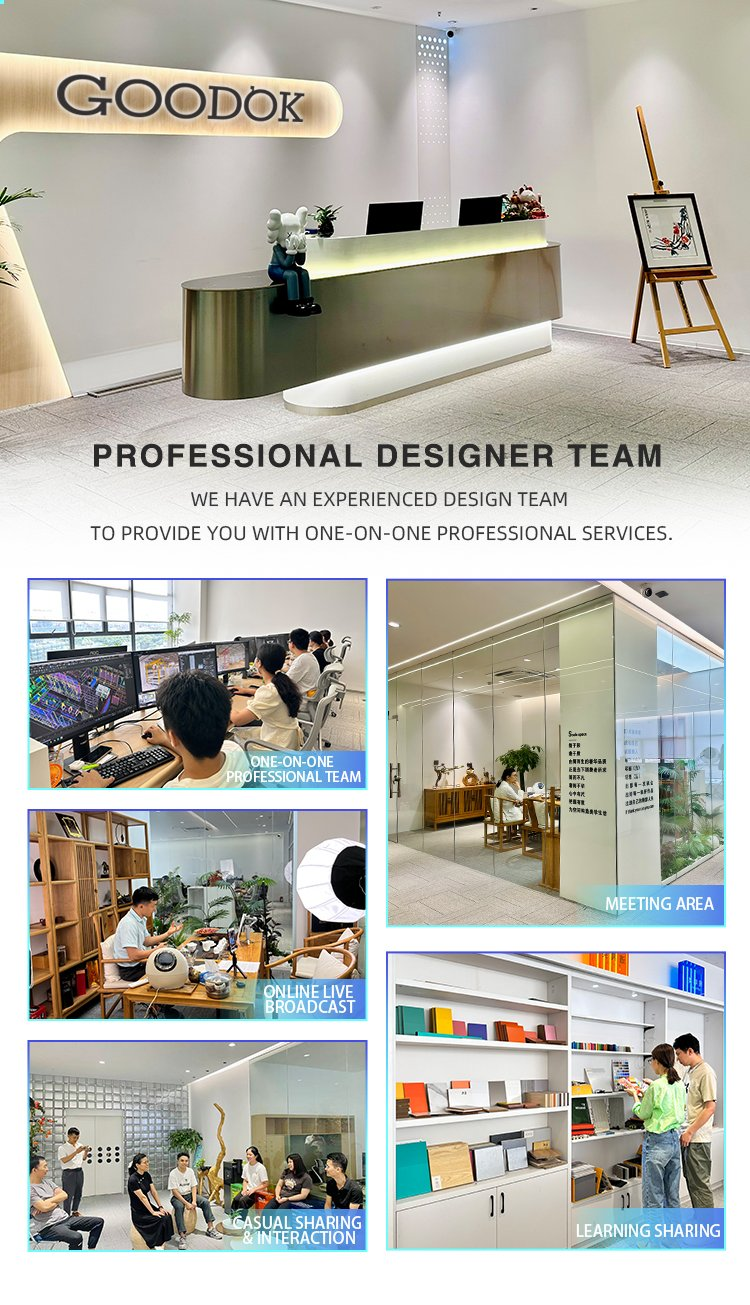
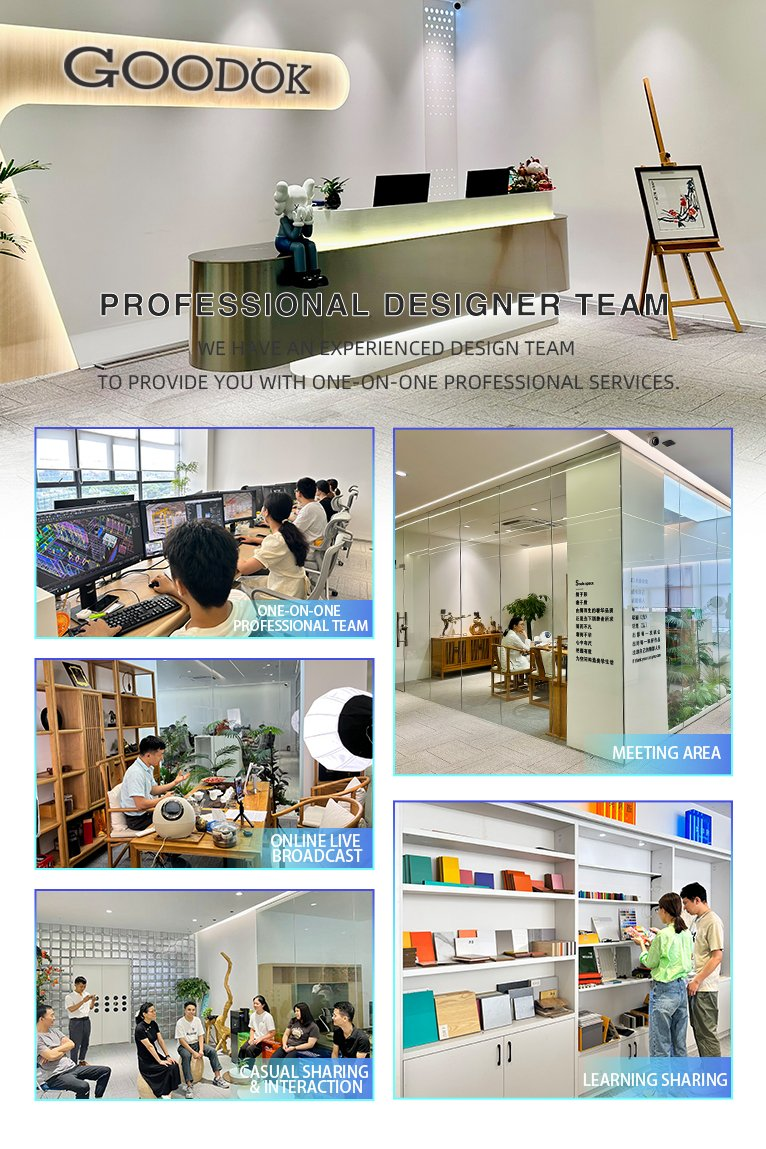
style: remove spacing, rounded corners and shadows from about page images

diff --git a/app/about/page.tsx b/app/about/page.tsx
@@ -9,10 +9,10 @@ export const metadata: Metadata = {
 
 export default function AboutPage() {
     return (
-        <div className="pt-24 pb-16">
-            <div className="container max-w-5xl mx-auto space-y-8">
+        <div className="pt-24">
+            <div className="container max-w-5xl mx-auto">
                 {/* Image 1: Office Team */}
-                <div className="relative aspect-[2/3] rounded-xl overflow-hidden shadow-lg">
+                <div className="relative aspect-[2/3] overflow-hidden">
                     <Image
                         src="/images/about/office-team.jpg"
                         alt="Goodok professional team"
@@ -23,7 +23,7 @@ export default function AboutPage() {
                 </div>
 
                 {/* Image 2: Factory Workshop */}
-                <div className="relative aspect-[2/3] rounded-xl overflow-hidden shadow-lg">
+                <div className="relative aspect-[2/3] overflow-hidden">
                     <Image
                         src="/images/about/factory-workshop.jpg"
                         alt="Goodok factory workshop"
@@ -33,7 +33,7 @@ export default function AboutPage() {
                 </div>
 
                 {/* Image 3: Warehouse */}
-                <div className="relative aspect-[2/3] rounded-xl overflow-hidden shadow-lg">
+                <div className="relative aspect-[2/3] overflow-hidden">
                     <Image
                         src="/images/about/warehouse.jpg"
                         alt="Goodok warehouse"
